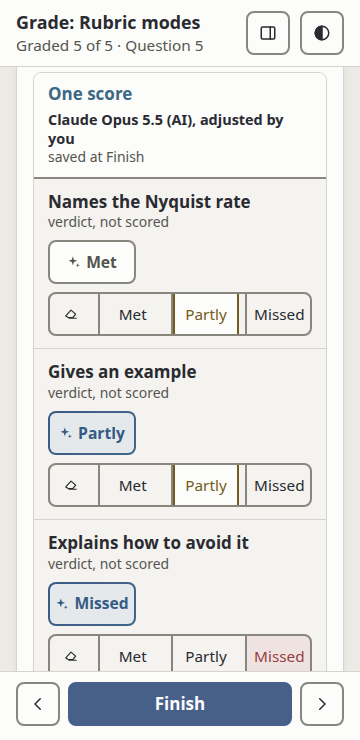
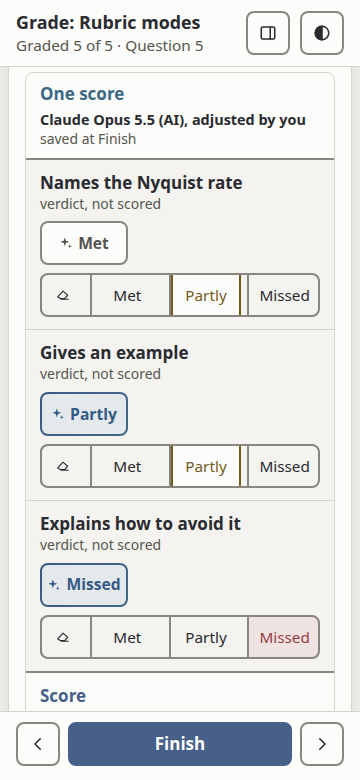
3z8: the screens at 360 x 780 (docs/screens/3z8), and the old 360 x 740 screens of 3h2 and 3p3 taken again at 360 x 780

diff --git a/e2e/screens-3z8.spec.ts b/e2e/screens-3z8.spec.ts
@@ -1,0 +1,87 @@
+import { cpSync, mkdirSync, mkdtempSync, readFileSync, writeFileSync } from "node:fs";
+import { tmpdir } from "node:os";
+import { join } from "node:path";
+import { type Page, test } from "@playwright/test";
+import { quizHash } from "../src/core/hash";
+import { buildFolder, PHONES, root, type Served, serveProcess, submitAttempt } from "./helpers";
+
+/**
+ * Screenshots of slice 3z8, at 360 x 780 (the narrowest common phone), English, light: the start screen, the answering
+ * page with the sidebar open, the results, and the `review`, `grade --web` and `brief --web` forms. Not part of
+ * `npm run check`: run with FULLMARK_SCREENS=1 npx playwright test e2e/screens-3z8.spec.ts --project=chromium. They land
+ * in docs/screens/3z8/.
+ */
+test.skip(!process.env.FULLMARK_SCREENS, "screenshots are made on request");
+test.use({ viewport: PHONES[0], hasTouch: true, isMobile: true, deviceScaleFactor: 2 });
+
+const dir = join(root, "docs", "screens", "3z8");
+mkdirSync(dir, { recursive: true });
+const shot = (page: Page, name: string) => page.screenshot({ path: join(dir, `${name}.png`) });
+
+const served: Served[] = [];
+test.afterEach(() => {
+  for (const s of served.splice(0)) s.child.kill("SIGKILL");
+});
+
+async function serve(folder: string, args: string[], page: Page, ready: string): Promise<void> {
+  const s = await serveProcess(folder, args);
+  served.push(s);
+  await page.emulateMedia({ reducedMotion: "reduce", colorScheme: "light" });
+  await page.goto(s.url);
+  await page.locator(ready).waitFor();
+  await page.evaluate(() => document.fonts.ready);
+}
+
+test("the page: the start screen, answering with the sidebar open, the results", async ({ page }) => {
+  const quiz = buildFolder("test/fixtures/page", "materials.md");
+  await page.emulateMedia({ colorScheme: "light" });
+  await page.goto(quiz.url);
+  await shot(page, "01-start");
+  await page.getByRole("button", { name: "Start" }).click();
+  await page.locator("[data-action=sidebar]").tap();
+  await shot(page, "02-answering-sidebar");
+  await page.locator("[data-action=close-sidebar]").tap();
+  await page.getByLabel(/right m1$/).check();
+  await submitAttempt(page);
+  await page.locator(".fm-results").waitFor();
+  await page.evaluate(() => window.scrollTo(0, 0));
+  await shot(page, "03-results");
+});
+
+test("review", async ({ page }) => {
+  const d = mkdtempSync(join(tmpdir(), "fm-screens-3z8-"));
+  mkdirSync(join(d, ".git"));
+  cpSync(join(root, "test/fixtures/page/materials.md"), join(d, "quiz.md"));
+  cpSync(join(root, "test/fixtures/page/materials"), join(d, "materials"), { recursive: true });
+  await serve(d, ["review", "quiz.md"], page, "[data-quiz]");
+  await shot(page, "04-review");
+});
+
+test("grade --web", async ({ page }) => {
+  const input = join(root, "test", "golden", "grade", "rubrics-grades-all", "input");
+  const d = mkdtempSync(join(tmpdir(), "fm-screens-3z8-"));
+  mkdirSync(join(d, ".git"));
+  const source = readFileSync(join(input, "quiz.md"), "utf8");
+  writeFileSync(join(d, "quiz.md"), source);
+  const results = JSON.parse(readFileSync(join(input, "results.json"), "utf8"));
+  results.quizHash = quizHash(source, []);
+  writeFileSync(join(d, "results.json"), JSON.stringify(results));
+  await serve(d, ["grade", "results.json", "--quiz", "quiz.md", "--web"], page, "[data-quiz]");
+  await shot(page, "05-grade");
+});
+
+test("brief --web", async ({ page }) => {
+  const d = mkdtempSync(join(tmpdir(), "fm-screens-3z8-"));
+  mkdirSync(join(d, ".git"));
+  await serve(
+    d,
+    [
+      ...["brief", "signals-midterm", "--web", "--no-open"],
+      ...["--purpose", "exam-prep", "--scope", "lectures 3 to 5, the Fourier transform and its properties"],
+      ...["--kinds", "lecture-slides,past-exams", "--count", "30", "--minutes", "90", "--mode", "timed-exam"],
+    ],
+    page,
+    ".bf",
+  );
+  await shot(page, "06-brief");
+});
